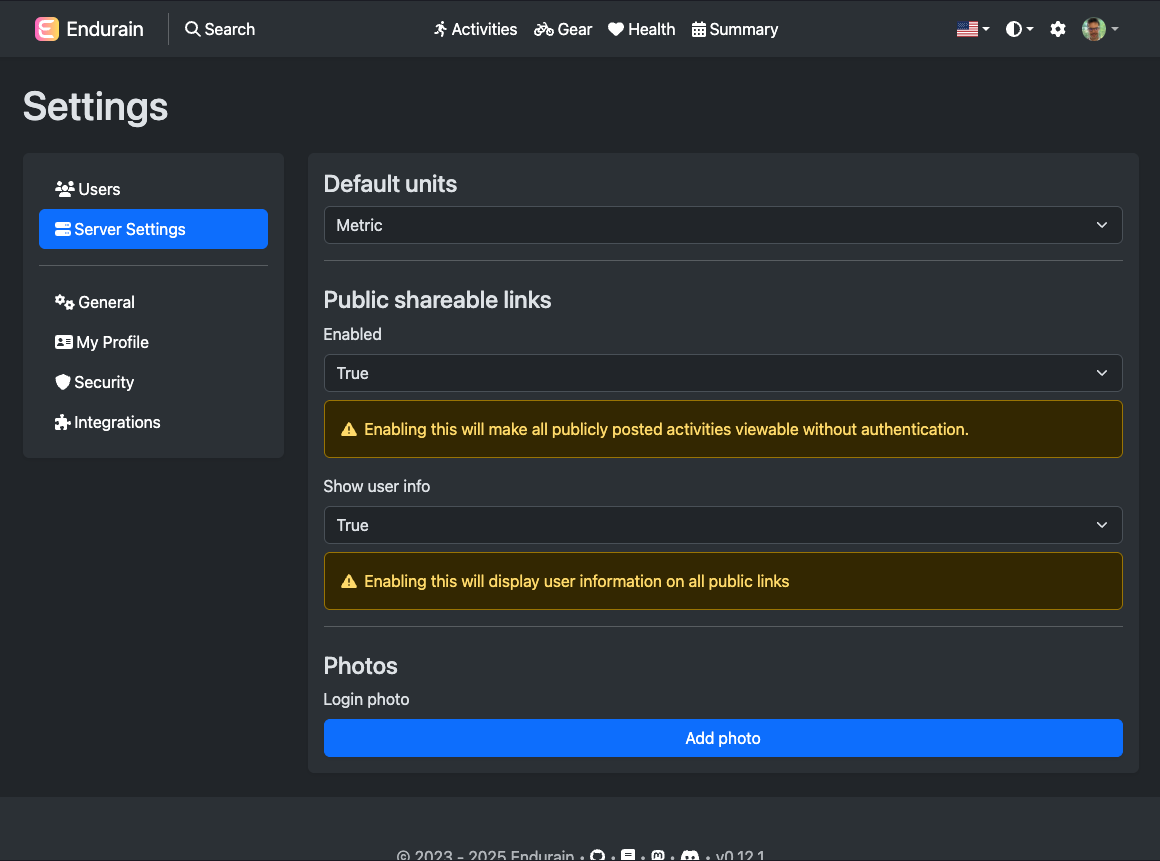
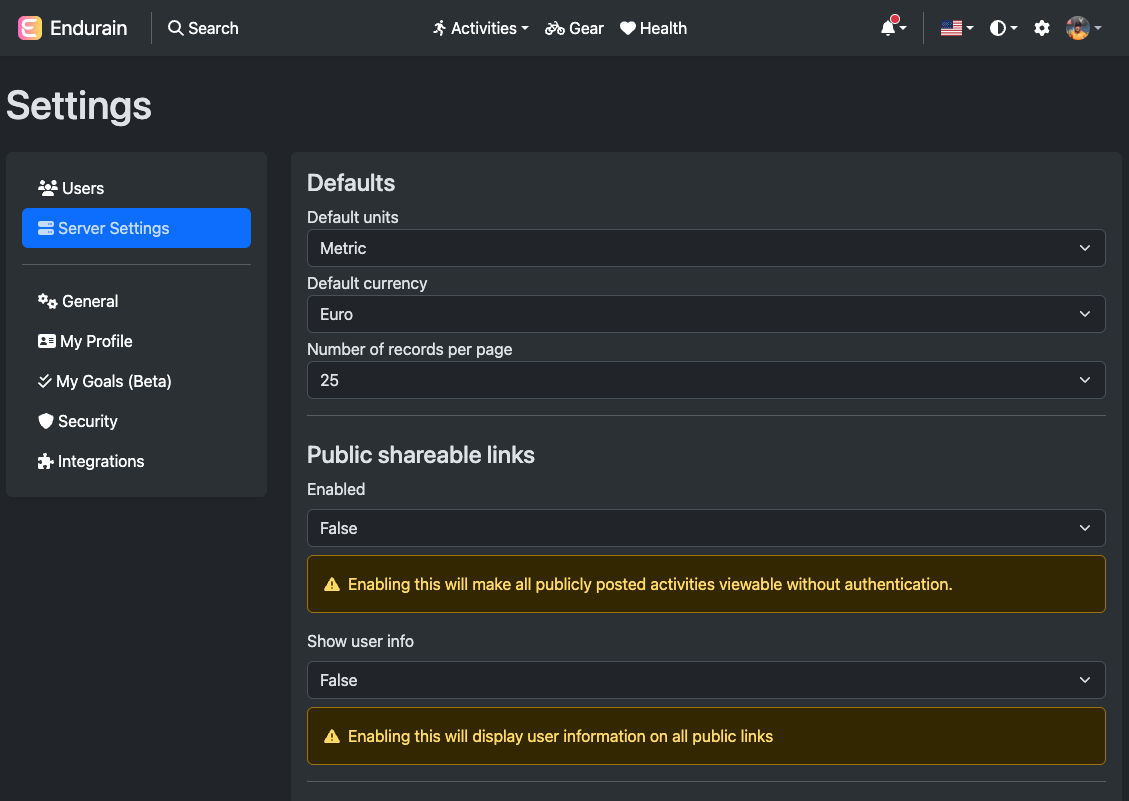
Update gallery photos with v0.14.0 changes

diff --git a/docs/gallery.md b/docs/gallery.md
@@ -44,5 +44,7 @@
 ![Settings general page](assets/gallery/screenshot_settings_general.png)
 ![Settings profile page 1](assets/gallery/screenshot_settings_profile_1.png)
 ![Settings profile page 2](assets/gallery/screenshot_settings_profile_2.png)
+![Settings profile page 2](assets/gallery/screenshot_settings_profile_3.png)
+![Settings my goals page](assets/gallery/screenshot_settings_my_goals.png)
 ![Settings security page](assets/gallery/screenshot_settings_security.png)
 ![Settings integrations page](assets/gallery/screenshot_settings_integrations.png)
